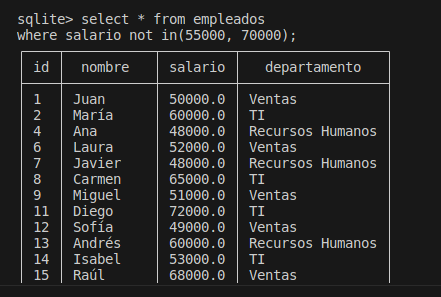
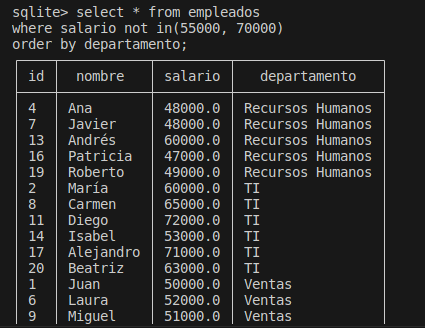
Add files via upload

Changed region(s): [[0.0306, 0.0, 0.9176, 1.0]]

diff --git a/Unidad_5/Tareas/Tarea_3/informe.md b/Unidad_5/Tareas/Tarea_3/informe.md
@@ -65,14 +65,17 @@ select concat_ws('-', nombre, departamento) as nombre_departamento from empleado
 * Funciones de Control de Flujo (CASE): Categoriza a los empleados según sus salarios.
 
 ```sql
-select nombre,
-case
-when salario<50 then 'Menos de 50000'
-when salario between 50 and 60 then 'Entre 50000 y 60000'
-when salario>70 then 'Mayor de 70000'
-end as categoria
+select nombre, departamento, salario, 
+case 
+when salario <50000 then 'C'
+when salario between 50000 and 60000 then 'B'
+when salario >60000 then 'A'
+else 'otro'
+end as 'categoria'
 from empleados;
 ```
+
+<img src="capturas/8.png" width=450/>
 
 * Funciones de Agregación (SUM): Calcula la suma total de salarios de todos los empleados.
 
@@ -98,8 +101,11 @@ select nombre, length(nombre) as longitud_del_nombre from empleados;
 * Funciones de Agregación (COUNT): Cuenta el número total de empleados en cada departamento.
 
 ```sql
-select count()
+select departamento, count(*) as numero_total 
+from empleados
+group by departamento;
 ```
+<img src="capturas/12.png" width=450/>
 
 * Funciones de Fecha y Hora (CURRENT_TIME): Muestra la hora actual.
 
@@ -122,7 +128,8 @@ select substr(nombre, 0, 4) as nombre from empleados;
 ```
 <img src="capturas/15.png" width=450/>
 
-* Order By and Like. 
+### Order By and Like. 
+
 * Empleados en el departamento de 'Ventas' con salarios superiores a 52000.
 
 ```sql
@@ -135,7 +142,7 @@ select * from empleados where departamento='Ventas' and salario>52000;
 ```sql
 select * from empleados 
 where nombre like '%a%'
-order by(salario);
+order by salario;
 ```
 <img src="capturas/17.png" width=450/>
 
@@ -160,8 +167,8 @@ order by salario desc limit 5;
 
 ```sql
 select * from empleados
-where nombre like 'M%' and
-salario>50000;
+where nombre like 'M%' or nombre like 'N%'
+and salario>50000;
 ```
 <img src="capturas/20.png" width=450/>
 
@@ -177,21 +184,25 @@ order by nombre;
 * Empleados con salarios únicos (eliminando duplicados) en orden ascendente.
 
 ```sql
-
+select distinct salario from empleados;
 ```
+<img src="capturas/22.png" width=450/>
 
 * Empleados cuyos nombres terminan con 'o' o 'a' y están en el departamento 'Ventas'.
 
 ```sql
-
+select * from empleados 
+where departamento='Ventas'
+and (nombre like '%a' or nombre like '%o');
 ```
-
+<img src="capturas/23.png" width=450/>
 
 * Empleados con salarios fuera del rango de 55000 a 70000, ordenados por departamento.
 
 ```sql
 select * from empleados
-where salario not in(55000, 70000);
+where salario not in(55000, 70000)
+order by departamento;
 ```
 <img src="capturas/24.png" width=450/>
 
